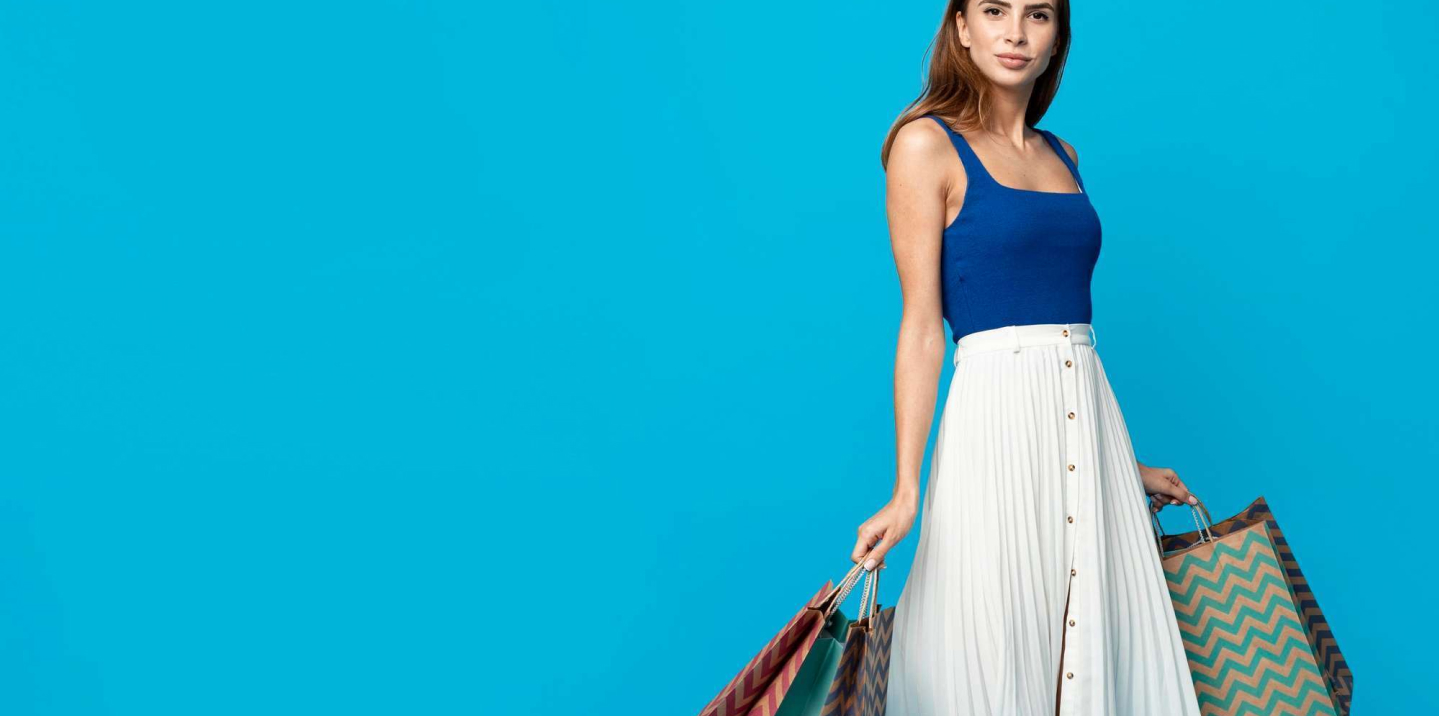
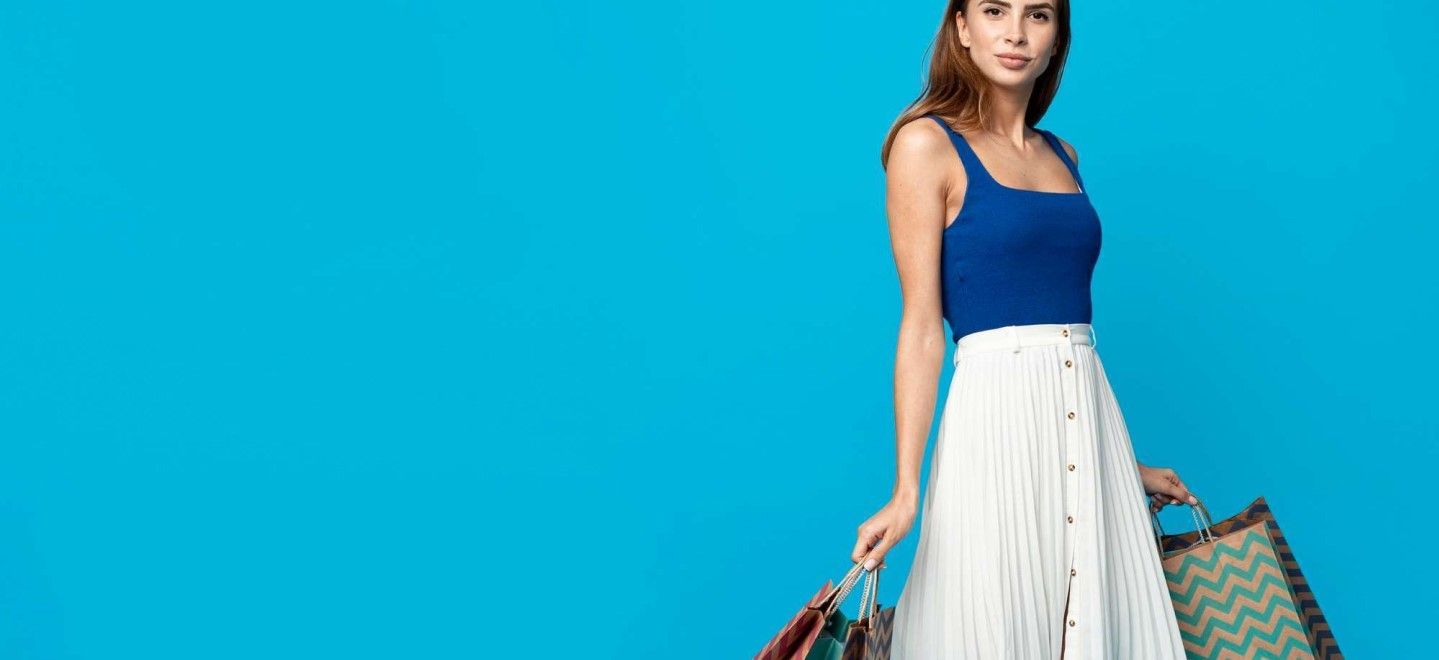
refreshment

Changed region(s): [[0.4892, 0.0, 0.9479, 1.0]]

diff --git a/src/app/components/Navbar.tsx b/src/app/components/Navbar.tsx
@@ -13,9 +13,19 @@ import {
 
 const Navbar = () => {
   const [isMenuOpen, setIsMenuOpen] = useState(false);
+  const [showAuthModal, setShowAuthModal] = useState(false);
+  const [isSignUp, setIsSignUp] = useState(false);
+
+  const openAuthModal = () => setShowAuthModal(true);
+  const closeAuthModal = () => {
+    setShowAuthModal(false);
+    setIsSignUp(false); // Reset to Sign In when modal is closed
+  };
+
+  const toggleAuthMode = () => setIsSignUp(!isSignUp);
 
   return (
-    <header className="w-full">
+    <header className="w-full relative">
       {/* First Row: Contact and Social Media */}
       <div className="w-full bg-gradient-to-r from-gray-900 via-gray-800 to-gray-900 text-white px-8 py-2 flex flex-col md:flex-row md:items-center md:justify-between">
         <div className="flex items-center justify-between space-x-4">
@@ -54,7 +64,7 @@ const Navbar = () => {
         {/* Desktop Navigation Links */}
         <nav className="hidden md:flex items-center space-x-6">
           <ul className="flex space-x-6 text-lg font-semibold">
-            {["Home", "shop", "About Us", "Our Team", "Contact Us", "Pages"].map((item, index) => (
+            {["Home", "Shop", "Products", "Our Team", "About Us", "Contact Us"].map((item, index) => (
               <li key={index}>
                 <a href={`/${item.toLowerCase().replace(/\s/g, "")}`} className="hover:text-blue-500 transition duration-300">
                   {item}
@@ -64,13 +74,16 @@ const Navbar = () => {
           </ul>
 
           <div className="flex items-center space-x-4">
-            <a href="/login" className="hover:text-blue-700 text-blue-500 font-medium">
+            <button
+              onClick={openAuthModal}
+              className="hover:text-blue-700 text-blue-500 font-medium"
+            >
               Login/Register
-            </a>
+            </button>
             <a href="#" aria-label="Search" className="hover:text-black text-blue-600">
               <FaSearch size={20} />
             </a>
-            <a href="/cart" aria-label="Cart" className="hover:text-black text-blue-600">
+            <a href="/products" aria-label="Cart" className="hover:text-black text-blue-600">
               <FaShoppingCart size={20} />
             </a>
           </div>
@@ -84,24 +97,68 @@ const Navbar = () => {
         </div>
       </div>
 
-      {/* Dropdown Menu for Mobile */}
-      {isMenuOpen && (
-        <nav className="md:hidden bg-white shadow-lg">
-          <ul className="flex flex-col space-y-4 p-6">
-            {["Home", "Shop", "About Us", "Our Team", "Contact Us", "Pages"].map((item, index) => (
-              <li key={index}>
-                <a href={`/${item.toLowerCase().replace(/\s/g, "")}`} className="block text-lg text-gray-700 hover:text-blue-500 transition duration-300">
-                  {item}
-                </a>
-              </li>
-            ))}
-            <li>
-              <a href="/login" className="block text-blue-600 font-medium hover:text-blue-800 transition">
-                Login/Register
-              </a>
-            </li>
-          </ul>
-        </nav>
+      {/* Auth Modal Popup */}
+      {showAuthModal && (
+        <div className="fixed inset-0 bg-black bg-opacity-50 backdrop-blur-md flex justify-center items-center z-50">
+          <div className="relative w-full max-w-md bg-white rounded-lg shadow-lg p-8">
+            <h2 className="text-3xl font-bold text-center mb-6 text-blue-600">
+              {isSignUp ? "Sign Up" : "Sign In"}
+            </h2>
+            <form className="space-y-4">
+              <div>
+                <label className="block text-gray-700 font-semibold mb-2">Email</label>
+                <input
+                  type="email"
+                  className="w-full p-3 border border-gray-300 rounded-lg focus:outline-none focus:ring-2 focus:ring-blue-500"
+                  placeholder="Enter your email"
+                  required
+                />
+              </div>
+              <div>
+                <label className="block text-gray-700 font-semibold mb-2">Password</label>
+                <input
+                  type="password"
+                  className="w-full p-3 border border-gray-300 rounded-lg focus:outline-none focus:ring-2 focus:ring-blue-500"
+                  placeholder="Enter your password"
+                  required
+                />
+              </div>
+
+              <button
+                type="submit"
+                className="w-full py-3 bg-blue-500 text-white rounded-lg font-bold hover:bg-blue-600 transition duration-300"
+              >
+                {isSignUp ? "Sign Up" : "Sign In"}
+              </button>
+
+              <div className="text-center mt-4">
+                <button
+                  type="button"
+                  className="w-full py-3 bg-red-500 text-white rounded-lg font-bold hover:bg-red-600 transition duration-300"
+                >
+                  {isSignUp ? "Sign Up with Google" : "Sign In with Google"}
+                </button>
+              </div>
+            </form>
+
+            <p className="text-center mt-4">
+              {isSignUp ? "Already have an account?" : "Don't have an account?"}{" "}
+              <button
+                onClick={toggleAuthMode}
+                className="text-blue-500 font-semibold hover:underline"
+              >
+                {isSignUp ? "Sign In" : "Sign Up"}
+              </button>
+            </p>
+
+            <button
+              onClick={closeAuthModal}
+              className="absolute top-4 right-4 text-gray-600 hover:text-gray-900 text-2xl"
+            >
+              &times;
+            </button>
+          </div>
+        </div>
       )}
     </header>
   );

diff --git a/src/app/signup/page.tsx b/src/app/signup/page.tsx
@@ -1,0 +1,90 @@
+// src/app/auth/page.tsx
+'use client';
+
+import { useState } from 'react';
+import Link from 'next/link';
+
+export default function AuthPage() {
+  const [isSignIn, setIsSignIn] = useState(true);
+
+  const toggleForm = () => setIsSignIn(!isSignIn);
+
+  return (
+    <div className="flex justify-center items-center min-h-screen bg-gradient-to-br from-blue-100 to-blue-300">
+      <div className="w-full max-w-md bg-white rounded-lg shadow-lg p-8">
+        <h1 className={`text-3xl font-bold text-center mb-6 ${isSignIn ? 'text-blue-600' : 'text-green-600'}`}>
+          {isSignIn ? 'Sign In' : 'Sign Up'}
+        </h1>
+
+        <form className="space-y-5">
+          {!isSignIn && (
+            <div>
+              <label className="block text-gray-700 font-semibold mb-2">Full Name</label>
+              <input
+                type="text"
+                className="w-full p-3 border border-gray-300 rounded-lg focus:outline-none focus:ring-2 focus:ring-green-500"
+                placeholder="Enter your full name"
+                required
+              />
+            </div>
+          )}
+
+          <div>
+            <label className="block text-gray-700 font-semibold mb-2">Email Address</label>
+            <input
+              type="email"
+              className="w-full p-3 border border-gray-300 rounded-lg focus:outline-none focus:ring-2 focus:ring-blue-500"
+              placeholder="Enter your email"
+              required
+            />
+          </div>
+
+          <div>
+            <label className="block text-gray-700 font-semibold mb-2">Password</label>
+            <input
+              type="password"
+              className="w-full p-3 border border-gray-300 rounded-lg focus:outline-none focus:ring-2 focus:ring-blue-500"
+              placeholder="Enter your password"
+              required
+            />
+          </div>
+
+          <button
+            type="submit"
+            className={`w-full py-3 rounded-lg font-bold text-white transition duration-300 ${
+              isSignIn ? 'bg-blue-500 hover:bg-blue-600' : 'bg-green-500 hover:bg-green-600'
+            }`}
+          >
+            {isSignIn ? 'Sign In' : 'Sign Up'}
+          </button>
+
+          <p className="text-center text-gray-600">
+            {isSignIn ? (
+              <>
+                Don't have an account?{' '}
+                <button
+                  type="button"
+                  className="text-green-500 hover:underline"
+                  onClick={toggleForm}
+                >
+                  Sign Up
+                </button>
+              </>
+            ) : (
+              <>
+                Already have an account?{' '}
+                <button
+                  type="button"
+                  className="text-blue-500 hover:underline"
+                  onClick={toggleForm}
+                >
+                  Sign In
+                </button>
+              </>
+            )}
+          </p>
+        </form>
+      </div>
+    </div>
+  );
+}

diff --git a/src/app/home/page.tsx b/src/app/home/page.tsx
@@ -1,7 +1,5 @@
 // src/app/page.tsx
 import Link from "next/link";
-import Header from "./components/Navbar";
-import Footer from "./components/footer";
 import React from "react";
 
 export default function Home() {
@@ -74,10 +72,10 @@ export default function Home() {
 
   return (
     <div className="font-sans">
-      <Header />
+      
       <main>
         {/* Hero Section */}
-        <section className="relative w-full h-[660px] overflow-hidden">
+        <section className="relative w-full h-[600px] overflow-hidden">
           <img
             src="pic2.jpg"
             alt="Summer Collection"
@@ -162,7 +160,7 @@ export default function Home() {
       Vita Classic Product
     </h2>
     <p className="text-white text-sm sm:text-base mb-6">
-    Experience fashion with a modern edge — our clothing brand blends style and quality, now available at your fingertips through our store.
+      We know how larger objects will act. We know how our objects will act. We know.
     </p>
     <div className="flex flex-col sm:flex-row items-center space-y-4 sm:space-y-0 sm:space-x-6">
       <p className="text-white text-3xl font-bold">$16.48</p>
@@ -201,10 +199,10 @@ export default function Home() {
       Part of the Neural Universe
     </h2>
     <p className="text-gray-600 text-base mb-8">
-    Experience fashion with a modern edge — our clothing brand blends style and quality, now available at your fingertips through our store.
+      We know how larger objects will act. But things on a small scale are different.
     </p>
     <div className="flex flex-col md:flex-row items-center md:space-x-6 space-y-4 md:space-y-0">
-      <Link href="/products">
+      <Link href="/productspecs">
         <button className="bg-green-600 text-white px-8 py-3 rounded-md font-semibold hover:bg-green-700 transition duration-300 shadow-md">
           Buy Now
         </button>
@@ -222,7 +220,7 @@ export default function Home() {
     <p className="text-xl font-semibold text-blue-600 uppercase tracking-widest mb-3">Practice Advice</p>
     <h2 className="text-4xl md:text-5xl font-extrabold text-gray-800 mb-6">Featured Post</h2>
     <p className="text-gray-600 text-lg leading-relaxed">
-    "Elevate your wardrobe with our exclusive designs, where comfort meets creativity, seamlessly delivered through our online shopping platform
+      Problems trying to resolve the conflict between the two major realms of classical physics, Newtonian mechanics.
     </p>
   </div>
 
@@ -267,14 +265,14 @@ export default function Home() {
 
   {/* Learn More Link */}
   <div className="mt-12 text-center">
-    <a href="ourteam" className="text-blue-600 font-semibold text-lg hover:underline">
+    <a href="#" className="text-blue-600 font-semibold text-lg hover:underline">
       Learn More →
     </a>
   </div>
 </section>
 
       </main>
-      <Footer />
+      
     </div>
   );
 }

diff --git a/src/app/shop/page.tsx b/src/app/shop/page.tsx
@@ -19,7 +19,7 @@ const ShopPage = () => {
       {/* Image Gallery Section */}
       <section className="w-full max-w-[1440px] mx-auto flex flex-wrap justify-center gap-6 p-8">
         {['1', '2', '3', '4', '5'].map((num) => (
-          <a href="/productspecs" key={num} className="transform transition hover:scale-105">
+          <a href="/products" key={num} className="transform transition hover:scale-105">
             <img
               src={`/col-md-4 (${num}).png`}
               alt={`Product ${num}`}
@@ -62,7 +62,7 @@ const ShopPage = () => {
         <div className="grid grid-cols-1 sm:grid-cols-2 md:grid-cols-3 lg:grid-cols-4 gap-8">
           {Array.from({ length: 12 }).map((_, index) => (
             <a
-              href="/productspecs"
+              href="/products"
               key={index}
               className="block transform transition hover:scale-105"
             >

diff --git a/src/app/pricing/page.tsx b/src/app/pricing/page.tsx
@@ -94,7 +94,7 @@ export default function Pricing() {
       {/* First Section: Pricing Header */}
       <section className="w-[870px] h-[180px] mx-auto mt-12 text-center">
         <h1 className="text-lg mb-4">Pricing</h1>
-        <h2 className="text-3xl font-semibold mb-4">Simple Pricing</h2>
+        <h2 className="text-3xl font-semibold mb-4">Least Pricing with Great Value</h2>
         <nav className="text-gray-500">
           <span className="hover:text-gray-700 cursor-pointer">Home</span> &gt; <span className="text-black font-semibold">Pricing</span>
         </nav>

diff --git a/src/app/components/footer.tsx b/src/app/components/footer.tsx
@@ -116,10 +116,10 @@ const Footer = () => {
       </div>
 
       {/* Bottom Section */}
-      <div className="text-center text-gray-800 text-sm space-y-2">
+      <div className="text-center text-gray-600 text-sm space-y-2">
         <p>All Rights Reserved</p>
         <p>
-          Made with 💻 by <span className="text-gray-800 font-semibold">Muhammad Hamza Iqbal</span>
+          Made with 💻 by <span className="text-gray-600 font-semibold">Muhammad Hamza Iqbal</span>
         </p>
       </div>
     </footer>
